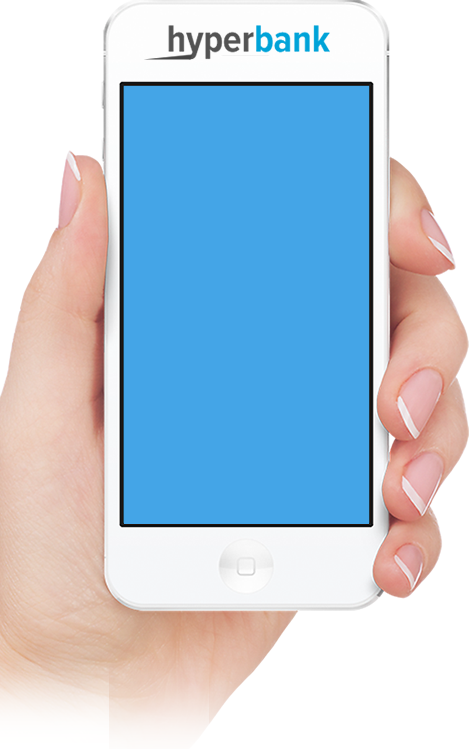
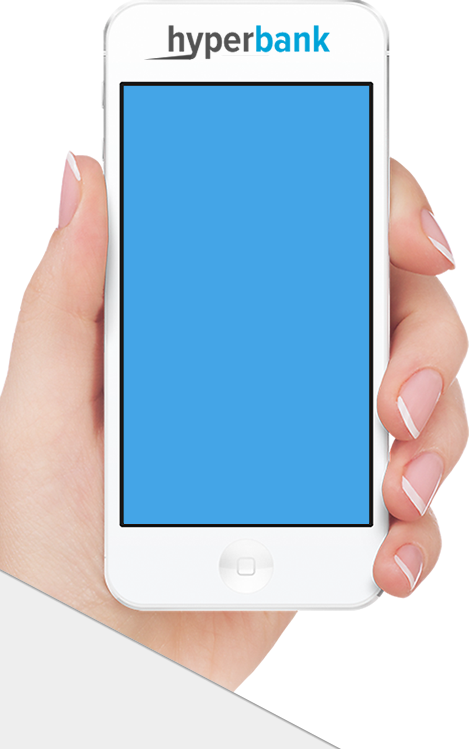
added sleave for hand to account for any height or width of screen

Changed region(s): [[0.0, 0.737, 0.5672, 0.9519], [0.6567, 0.9826, 0.7164, 1.0], [0.597, 0.9519, 0.6567, 0.9826]]

diff --git a/html/index.html b/html/index.html
@@ -46,15 +46,18 @@
         <iframe src="app.html"/></iframe>
     </div>
 </div>
-    
-<div class="container">
-    <div class="offside intro">
-        <p>The application that was previously known as NuBank won 2nd place at the recent <a href="http://blockstrap.com/en/blog/dbs-blockchain-hack-de-brief/" target="blank">DBS Hackathon</a> in Singapore and is now HyperBank.</p>
-        <p>We utilize the blockchains in order to provide a secure and fully auditable digital trail of transfers but avoid volatilty by keeping transfers at fixed local currencies with multi-signature signing from financial partners.</p>
-        <p>Consumers communicate using standard SMS functionality directy with their village elders who then use their smartphones to record and relay transactions to the blockchain - providing fully distributed M-Pesa functionality.</p>
-    </div>
-</div>
 
+<div id="hand-wrapper">
+    <div class="container" style="position: relative">
+        <div class="offside intro">
+            <p>The application that was previously known as NuBank won 2nd place at the recent <a href="http://blockstrap.com/en/blog/dbs-blockchain-hack-de-brief/" target="blank">DBS Hackathon</a> in Singapore and is now HyperBank.</p>
+            <p>We utilize the blockchains in order to provide a secure and fully auditable digital trail of transfers but avoid volatilty by keeping transfers at fixed local currencies with multi-signature signing from financial partners.</p>
+            <p>Consumers communicate using standard SMS functionality directy with their village elders who then use their smartphones to record and relay transactions to the blockchain - providing fully distributed M-Pesa functionality.</p>
+        </div>
+    </div>
+    <div id="sleave"></div>
+</div>
+    
 <script src="js/jquery.min.js" type="text/javascript"></script>
 <script src="js/bootstrap.min.js" type="text/javascript"></script>
 <script src="js/hyper.js" type="text/javascript"></script>

diff --git a/html/css/hyper.css b/html/css/hyper.css
@@ -137,6 +137,29 @@ body.app img {
 
 /*
 
+SLEAVE
+
+*/
+#sleave {
+    display: block;
+    position: absolute;
+    top: 175px;
+    left: 0;
+    width: 340px;
+    background: #EEE;
+    border-right: 2px solid #999;
+    height: 100%;
+    bottom: 0;
+    bottom: 0;
+    height: auto;
+}
+#hand-wrapper {
+    display: block;
+    position: relative;
+}
+
+/*
+
 RESPONSIVENESS
 
 */
@@ -151,7 +174,8 @@ RESPONSIVENESS
     }
 }
 @media only screen and (max-width : 1024px) {
-    #hand {
+    #hand, 
+    #sleave {
         display: none;
     }
     #message {
